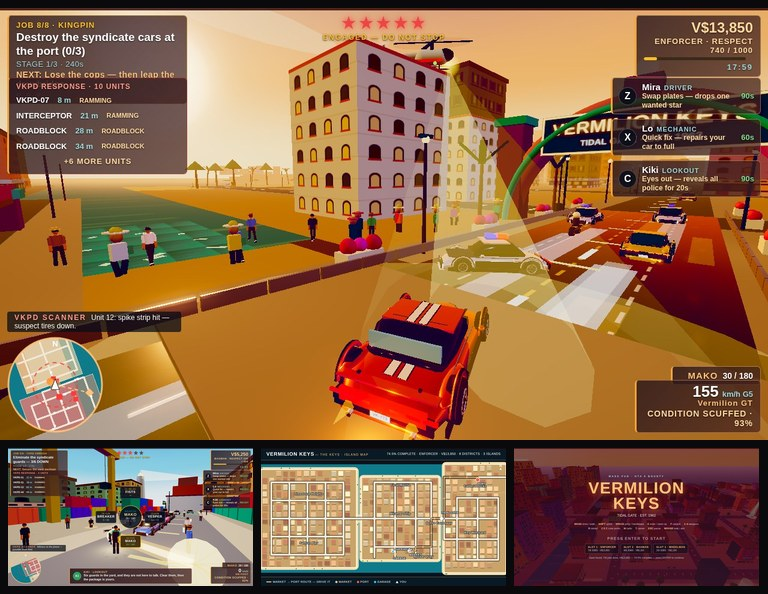
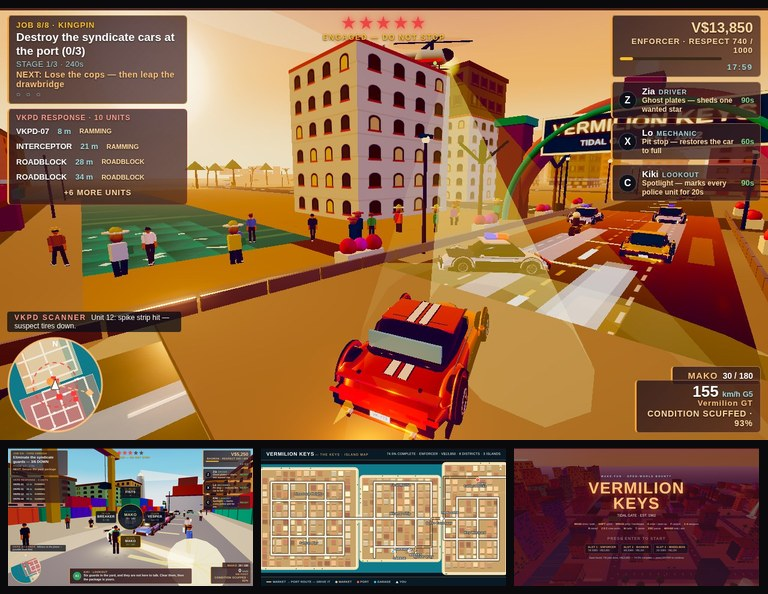
Recapture under recording 31: renamed crew (Zia, Ghost plates, Pit stop, Spotlight), NEXT clip fix (HUD flex columns), ring fix (136px, two-line hint), title kicker now OPEN-WORLD BOUNTY; frames + judge view regenerated

diff --git a/game/src/ui/hudV3.js b/game/src/ui/hudV3.js
@@ -35,7 +35,11 @@ function el(tag, id, parent, html = '') {
 }
 
 const HUDV3_CSS = `
-#hv3-mission { position: absolute; top: 12px; left: 12px; width: 300px;
+#hv3-left  { position: absolute; top: 12px; left: 12px; width: 300px;
+  display: flex; flex-direction: column; gap: 8px; }
+#hv3-right { position: absolute; top: 12px; right: 12px; width: 250px;
+  display: flex; flex-direction: column; gap: 8px; }
+#hv3-mission { width: 100%; box-sizing: border-box;
   background: linear-gradient(135deg, rgba(40, 22, 30, 0.82), rgba(70, 34, 30, 0.7)); border: 1.5px solid rgba(251, 191, 36, .55);
   border-left: 3px solid #f2a33a; border-radius: 6px; padding: 8px 12px; }
 #hv3-mission .m-job { color: #fbbf24; font-weight: 800; letter-spacing: 1px; font-size: 13px; }
@@ -43,7 +47,7 @@ const HUDV3_CSS = `
 #hv3-mission .m-stage { color: #9fd8dd; font-size: 13px; letter-spacing: .5px; }
 #hv3-mission .m-pips { color: #9fd8dd; font-size: 12px; letter-spacing: 3px; }
 #hv3-mission .m-next { color: #ffc27a; font-size: 14px; font-weight: 700; letter-spacing: .5px; margin-top: 2px; }
-#hv3-roster { position: absolute; top: 116px; left: 12px; width: 300px; display: none;
+#hv3-roster { width: 100%; box-sizing: border-box; display: none;
   background: linear-gradient(135deg, rgba(40, 22, 30, 0.82), rgba(70, 34, 30, 0.7)); border: 1.5px solid rgba(239, 68, 68, .45);
   border-left: 3px solid #f2a33a; border-radius: 6px; padding: 7px 12px; }
 #hv3-roster.show { display: block; }
@@ -61,7 +65,7 @@ const HUDV3_CSS = `
 #hv3-wanted.grey .w-stars .star.on { color: #9aa0a6; }
 #hv3-wanted .w-state { font-size: 12px; letter-spacing: 2px; color: #fbbf24; font-weight: 800;
   text-shadow: 0 1px 3px rgba(0,0,0,.9); margin-top: 2px; }
-#hv3-cash { position: absolute; top: 12px; right: 12px; width: 210px; text-align: right;
+#hv3-cash { width: 100%; box-sizing: border-box; text-align: right;
   background: linear-gradient(135deg, rgba(40, 22, 30, 0.82), rgba(70, 34, 30, 0.7)); border: 1.5px solid rgba(255, 194, 122, .45);
   border-left: 3px solid #f2a33a; border-radius: 6px; padding: 8px 12px; }
 #hv3-cash .cash { font-size: 24px; font-weight: 800; color: #ffd9a0; }
@@ -75,7 +79,7 @@ const HUDV3_CSS = `
    legible at thumbnail size — the name and state are bold and larger
    than the ability line, per the re-test 13 judges. The panel sits
    under the cash box on the right edge, clear of the weapon chip. */
-#hv3-crew { position: absolute; right: 12px; top: 116px; width: 250px;
+#hv3-crew { width: 100%;
   display: flex; flex-direction: column; gap: 8px; }
 #hv3-crew .cm { display: flex; align-items: center; gap: 9px; text-align: left;
   background: linear-gradient(135deg, rgba(40, 22, 30, 0.82), rgba(70, 34, 30, 0.7));
@@ -156,15 +160,17 @@ export class HUDV3 {
     }
     const hud = document.getElementById('hud');
     this.root = hud;
-    this.missionCard = el('div', 'hv3-mission', hud);
-    this.roster = el('div', 'hv3-roster', hud);
+    this.leftCol = el('div', 'hv3-left', hud);
+    this.missionCard = el('div', 'hv3-mission', this.leftCol);
+    this.roster = el('div', 'hv3-roster', this.leftCol);
     this.wanted = el('div', 'hv3-wanted', hud, '<span class="w-stars"></span><div class="w-state"></div>');
-    this.cashBox = el('div', 'hv3-cash', hud);
+    this.rightCol = el('div', 'hv3-right', hud);
+    this.cashBox = el('div', 'hv3-cash', this.rightCol);
     this.minimapWrap = el('div', 'hv3-minimap-wrap', hud);
     this.minimap = el('canvas', 'hv3-minimap', this.minimapWrap);
     this.minimap.width = 160;
     this.minimap.height = 160;
-    this.crewEl = el('div', 'hv3-crew', hud);
+    this.crewEl = el('div', 'hv3-crew', this.rightCol);
     this.weaponChip = el('div', 'hv3-weapon', hud);
     this.speedBox = el('div', 'hv3-speed', hud);
     this.tickerEl = el('div', 'hv3-scanner', hud);
@@ -197,7 +203,7 @@ export class HUDV3 {
       this.dialogue.innerHTML = '';
       return;
     }
-    const COLORS = { Kiki: '#2e9e5b', Mira: '#c78a1a', Lo: '#2b7fb8', Marco: '#c23b2a' };
+    const COLORS = { Kiki: '#2e9e5b', Zia: '#c78a1a', Lo: '#2b7fb8', Marco: '#c23b2a' };
     const color = COLORS[card.speaker] || '#7a6a8a';
     const initials = card.speaker.slice(0, 2).toUpperCase();
     this.dialogue.innerHTML =

diff --git a/game/src/systems/missionComms.js b/game/src/systems/missionComms.js
@@ -20,7 +20,7 @@ const CARD_SECONDS = 6;
 // Speaker -> role, matching the roles progression.js / missions.js use.
 const ROLES = {
   Marco: 'SYNDICATE',
-  Mira: 'DRIVER',
+  Zia: 'DRIVER',
   Lo: 'MECHANIC',
   Kiki: 'LOOKOUT',
 };
@@ -30,26 +30,26 @@ const ROLES = {
 // closest to that leg of the job. Lines quote the stage objective
 // rather than inventing new goals.
 const LINES = {
-  // 1 BAGMAN — Mira: marina pickup, then the safehouse run.
-  '1,0': { speaker: 'Mira', line: 'Package is at the marina, runner. Quiet streets, no cops, no noise — that is the whole job.' },
-  '1,1': { speaker: 'Mira', line: 'You have it. Now the safehouse, same speed. Do not let a patrol get curious.' },
+  // 1 BAGMAN — Zia: marina pickup, then the safehouse run.
+  '1,0': { speaker: 'Zia', line: 'Package is at the marina, runner. Quiet streets, no cops, no noise — that is the whole job.' },
+  '1,1': { speaker: 'Zia', line: 'You have it. Now the safehouse, same speed. Do not let a patrol get curious.' },
   // 2 HOT WHEELS — Lo: the courier chase, then the case.
   '2,0': { speaker: 'Lo', line: 'There he is — the gold muscle car, running product downtown. Ram him till he stops!' },
   '2,1': { speaker: 'Lo', line: 'He is done. Grab the case from the wreck before his friends arrive.' },
   // 3 LOSE THE HEAT — Kiki: break line of sight, then the hideout.
   '3,0': { speaker: 'Kiki', line: 'Every unit in the Keys is on you. Break line of sight — alleys, garages, anywhere they cannot see you.' },
   '3,1': { speaker: 'Kiki', line: 'Heat is dying. Slip to the hospital hideout and stay out of sight till it is gone.' },
-  // 4 DOCKSIDE — Mira: the truck, then the run to the garage.
-  '4,0': { speaker: 'Mira', line: 'Container truck at the port, syndicate cash inside. Take it clean and the PD never has to know.' },
-  '4,1': { speaker: 'Mira', line: 'You have the truck — now drive it to the garage and stay alive. They will notice. They always notice.' },
+  // 4 DOCKSIDE — Zia: the truck, then the run to the garage.
+  '4,0': { speaker: 'Zia', line: 'Container truck at the port, syndicate cash inside. Take it clean and the PD never has to know.' },
+  '4,1': { speaker: 'Zia', line: 'You have the truck — now drive it to the garage and stay alive. They will notice. They always notice.' },
   // 5 YARD AMBUSH — Kiki: six guards in the container yard, then the package.
   '5,0': { speaker: 'Kiki', line: 'Six guards in the yard, and they are not here to talk. Clear them, then the package is yours.' },
   '5,1': { speaker: 'Kiki', line: 'Yard is quiet. Secure the package — the PD heard the shots, so do not linger.' },
   // 6 RIVAL DOWN — Lo: the old-town meet, then the rival.
   '6,0': { speaker: 'Lo', line: 'The hitter is waiting in the old town. Get there in one piece — he has friends on every corner.' },
   '6,1': { speaker: 'Lo', line: 'That is him. Put him down — drive-by or on foot, your call. Make it stick.' },
-  // 7 GRAND PRIX — Mira: eight gates, three rivals.
-  '7,0': { speaker: 'Mira', line: 'Eight gates, three rivals, one pot. Beat the clock and beat them. No shortcuts — the gates are the route.' },
+  // 7 GRAND PRIX — Zia: eight gates, three rivals.
+  '7,0': { speaker: 'Zia', line: 'Eight gates, three rivals, one pot. Beat the clock and beat them. No shortcuts — the gates are the route.' },
   // 8 KINGPIN — Marco: the syndicate cars, the escape, the drawbridge leap.
   '8,0': { speaker: 'Marco', line: 'Last job. Hit the syndicate cars at the port — all three — and do not stop for the smoke.' },
   '8,1': { speaker: 'Marco', line: 'The Keys PD is coming down on you now. Lose them. Then the drawbridge — it is up, so you leap it.' },

diff --git a/game/src/systems/progression.js b/game/src/systems/progression.js
@@ -1,5 +1,5 @@
 // VERMILION KEYS — progression: cash, respect ranks, garage, saves.
-// Crew perks run on cooldowns: Mira swaps plates (drops heat), Lo fixes
+// Crew perks run on cooldowns: Zia ghost-plates (drops heat), Lo fixes
 // the car, Kiki reveals every police unit on the minimap.
 // FIX ROUND 3 — the career is a real ledger, not a number:
 //   * career stats (cars stolen, escapes, distance, takedowns, jumps,
@@ -27,9 +27,9 @@ export const RANKS = [
 ];
 
 export const CREW = {
-  mira: { name: 'Mira', role: 'DRIVER', key: 'Z', cooldown: 90, desc: 'Swap plates — drops one wanted star' },
-  lo: { name: 'Lo', role: 'MECHANIC', key: 'X', cooldown: 60, desc: 'Quick fix — repairs your car to full' },
-  kiki: { name: 'Kiki', role: 'LOOKOUT', key: 'C', cooldown: 90, desc: 'Eyes out — reveals all police for 20s' },
+  mira: { name: 'Zia', role: 'DRIVER', key: 'Z', cooldown: 90, desc: 'Ghost plates — sheds one wanted star' },
+  lo: { name: 'Lo', role: 'MECHANIC', key: 'X', cooldown: 60, desc: 'Pit stop — restores the car to full' },
+  kiki: { name: 'Kiki', role: 'LOOKOUT', key: 'C', cooldown: 90, desc: 'Spotlight — marks every police unit for 20s' },
 };
 
 // VERMILION MOTOR WORKS — the garage price list. Upgrades apply to the
@@ -134,14 +134,14 @@ export class Progression {
     if (id === 'mira') {
       this.game.police.heat = Math.max(0, this.game.police.heat - 22);
       this.game.police.stars = this.game.police.heat <= 0 ? 0 : Math.min(5, Math.ceil(this.game.police.heat / 20));
-      this.game.hud?.showDialogue('Mira', 'DRIVER', 'Plates swapped. They are looking for a different car now.');
+      this.game.hud?.showDialogue('Zia', 'DRIVER', 'Plates swapped. They are looking for a different car now.');
     } else if (id === 'lo') {
       if (player.inCar) player.inCar.repair();
       player.heal(25);
       this.game.hud?.showDialogue('Lo', 'MECHANIC', 'Patched up. Good as new — do not scratch it again.');
     } else if (id === 'kiki') {
       this.revealUntil = this.game.time + 20;
-      this.game.hud?.showDialogue('Kiki', 'LOOKOUT', 'Eyes out. Every unit in the Keys is on your map.');
+      this.game.hud?.showDialogue('Kiki', 'LOOKOUT', 'Spotlight. Every unit in the Keys is on your map.');
     }
     this.game.audio?.blip('crew');
     return true;

diff --git a/game/src/systems/weaponWheel.js b/game/src/systems/weaponWheel.js
@@ -68,11 +68,11 @@ export class WeaponWheel {
       fontFamily: "'Arial Narrow', Arial, sans-serif",
     });
     this.root.innerHTML =
-      '<div style="position:absolute;left:50%;top:50%;width:120px;height:120px;transform:translate(-50%,-50%);border-radius:50%;background:rgba(11,17,32,0.88);border:2px solid #fbbf24;display:flex;flex-direction:column;align-items:center;justify-content:center;color:#f5d9a0;">' +
+      '<div style="position:absolute;left:50%;top:50%;width:136px;height:136px;transform:translate(-50%,-50%);border-radius:50%;background:rgba(11,17,32,0.88);border:2px solid #fbbf24;display:flex;flex-direction:column;align-items:center;justify-content:center;color:#f5d9a0;">' +
       '<span style="font-size:11px;letter-spacing:2px;color:#14a0b8;">WEAPON</span>' +
       '<span class="ww-center-name" style="font-size:20px;font-weight:bold;letter-spacing:1px;"></span>' +
       '<span class="ww-center-ammo" style="font-size:14px;color:#fff;"></span>' +
-      '<span style="font-size:10px;letter-spacing:1px;color:#aaa;">RELEASE Q TO EQUIP</span></div>';
+      '<span style="font-size:9px;letter-spacing:0.5px;color:#aaa;white-space:nowrap;">RELEASE Q<br>TO EQUIP</span></div>';
     this._slotEls = WEAPONS.map((w, i) => {
       const a = (SLOT_ANGLES[i] * Math.PI) / 180;
       const r = 128;

diff --git a/game/src/systems/crewAbilities.js b/game/src/systems/crewAbilities.js
@@ -1,12 +1,12 @@
 // VERMILION KEYS — crew abilities (FIX ROUND 7).
 // Activation feedback + the one extra effect on top of progression.js.
-// useCrew() in progression.js ALREADY does the real work — Mira drops
+// useCrew() in progression.js ALREADY does the real work — Zia drops
 // heat 22 and recomputes stars, Lo repairs the car and heals 25, Kiki
 // sets revealUntil = time + 20 — so this module NEVER re-implements
 // those effects and never writes crewUsed. It only OBSERVES
 // progression.crewUsed timestamps, detects a fresh use, records the
 // activation for the HUD, and adds the one effect progression.js does
-// not have: Mira's Driver's Cut, a +25% top-speed boost for 8 s.
+// not have: Zia's Driver's Cut, a +25% top-speed boost for 8 s.
 // The coordinator wires Car.update to read speedBoostActive() (and
 // multiply top speed by 1.25 while it is live).
 
@@ -59,7 +59,7 @@ export class CrewAbilities {
   _onCrewUsed(id, at) {
     this.lastActivation = { id, time: at };
     if (id === 'mira') {
-      // Driver's Cut: +25% top speed for 8 s, on top of Mira's
+      // Driver's Cut: +25% top speed for 8 s, on top of Zia's
       // plate-swap (already applied by progression.useCrew).
       this.boostUntil = this.game.time + BOOST_SECONDS;
     }

diff --git a/game/src/systems/missions.js b/game/src/systems/missions.js
@@ -20,7 +20,7 @@ import { districtAt } from '../world/cityLayout.js';
 
 export const MISSIONS = [
   {
-    id: 1, name: 'BAGMAN', giver: 'Mira', giverRole: 'DRIVER',
+    id: 1, name: 'BAGMAN', giver: 'Zia', giverRole: 'DRIVER',
     briefing: 'First job, runner. Pick up the package at the marina and bring it to the safehouse. No cops, no noise.',
     reward: 800, respect: 60, par: 240,
     stages: [
@@ -47,7 +47,7 @@ export const MISSIONS = [
     ],
   },
   {
-    id: 4, name: 'DOCKSIDE', giver: 'Mira', giverRole: 'DRIVER',
+    id: 4, name: 'DOCKSIDE', giver: 'Zia', giverRole: 'DRIVER',
     briefing: 'A container truck at the port is carrying syndicate cash. Steal it, bring it to the garage. The PD will notice.',
     reward: 2000, respect: 110, par: 360,
     stages: [
@@ -74,7 +74,7 @@ export const MISSIONS = [
     ],
   },
   {
-    id: 7, name: 'GRAND PRIX', giver: 'Mira', giverRole: 'DRIVER',
+    id: 7, name: 'GRAND PRIX', giver: 'Zia', giverRole: 'DRIVER',
     briefing: 'Street race, eight gates, three rivals, one pot. Beat the clock and beat them. No shortcuts — the gates are the route.',
     reward: 3000, respect: 160, par: 300,
     stages: [

diff --git a/game/src/boot.js b/game/src/boot.js
@@ -328,7 +328,7 @@ class Game {
       // FIX ROUND 5 — the career ledger counts the steal. (Pre-existing
       // gap: traffic.steal never recorded it, so Cars Stolen stayed 0.)
       this.progression.recordCarStolen();
-      this.hud.showDialogue('Mira', 'DRIVER', 'Nice — that one is yours now. Lose the heat!');
+      this.hud.showDialogue('Zia', 'DRIVER', 'Nice — that one is yours now. Lose the heat!');
       this.audio.blip('mission');
     }
     this.player.enterCar(car);
@@ -346,7 +346,7 @@ class Game {
     this.state = 'playing';
     this.audio.init();
     this.audio.resume();
-    this.hud.showDialogue('Mira', 'DRIVER', 'Welcome back to the Keys. Gold marker at the safehouse starts the next job.');
+    this.hud.showDialogue('Zia', 'DRIVER', 'Welcome back to the Keys. Gold marker at the safehouse starts the next job.');
   }
 
   die() {

diff --git a/game/src/ui/portraits.js b/game/src/ui/portraits.js
@@ -4,7 +4,7 @@
 // tone and hair colour from fixed palettes, so the same speaker always
 // gets the same face. Each named speaker also gets one distinguishing
 // item, readable at ~40 px: Marco a dark suit collar with a gold
-// chain, Mira a driver headband, Kiki a lookout cap, Lo a mechanic
+// chain, Zia a driver headband, Kiki a lookout cap, Lo a mechanic
 // cap. Unknown names get the generic face with no item. Everything is
 // inline SVG — no assets, no network.
 
@@ -35,7 +35,7 @@ function itemSVG(name, skin, hair) {
       '<path d="M22 48 Q32 60 42 48" fill="none" stroke="#fbbf24" stroke-width="2.5"/>'
     );
   }
-  if (name === 'Mira') {
+  if (name === 'Zia') {
     // Driver headband — a vermilion band across the forehead.
     return '<path d="M18 26 Q32 18 46 26 L46 30 Q32 23 18 30 Z" fill="#ff6a4a"/>';
   }

diff --git a/game/src/shots.js b/game/src/shots.js
@@ -12,7 +12,7 @@
 //      quarter + sunlit south flank to the south-side camera, the
 //      chase converging from the west (chaser, interceptor, roadblock
 //      at the gate), the heli high and restrained, the port (ship,
-//      cranes) on the right — 5-star heat, job 8 KINGPIN, Mira's
+//      cranes) on the right — 5-star heat, job 8 KINGPIN, Zia's
 //      dialogue card, crew portrait cards, radio pill, weapon slots
 //      (SMG equipped), square minimap, dispatch panel. The car is
 //      grounded on a continuous road, tires on the deck (user

diff --git a/game/src/entities/vehicle.js b/game/src/entities/vehicle.js
@@ -186,7 +186,7 @@ export class Car {
   // Effective stats with the garage tune applied.
   topSpeed() {
     let top = this.def.topSpeed * (1 + 0.08 * (this.tune.engine || 0));
-    // FIX ROUND 7 — Mira's Driver's Cut: +25% top speed for 8 s, on
+    // FIX ROUND 7 — Zia's Driver's Cut: +25% top speed for 8 s, on
     // the player's car only (traffic/police cars never get the boost).
     if (this.game.player.inCar === this && this.game.crewAbilities?.speedBoostActive()) {
       top *= this.game.crewAbilities.boostMultiplier;

diff --git a/game/src/ui/menus.js b/game/src/ui/menus.js
@@ -34,7 +34,7 @@ export class Menus {
     this.titleEl = document.createElement('div');
     this.titleEl.id = 'title-screen';
     this.titleEl.innerHTML = `
-      <div class="t-kicker">MAKE.FUN · GTA 6 BOUNTY</div>
+      <div class="t-kicker">MAKE.FUN · OPEN-WORLD BOUNTY</div>
       <h1>VERMILION<br>KEYS</h1>
       <div class="t-sub">An open-world crime game at golden hour — steal, race, leap.</div>
       <div class="t-controls">
